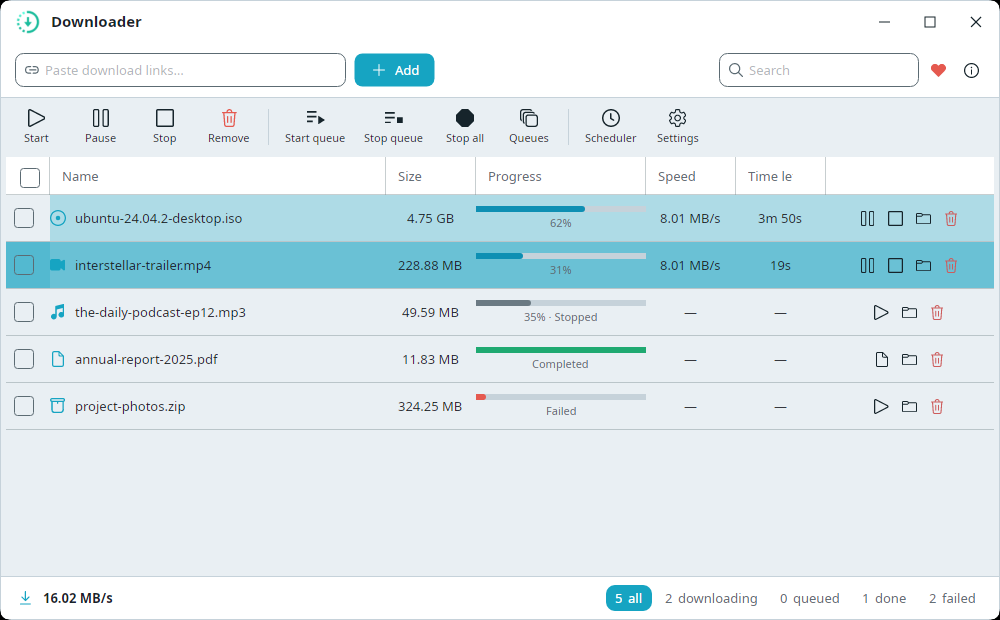
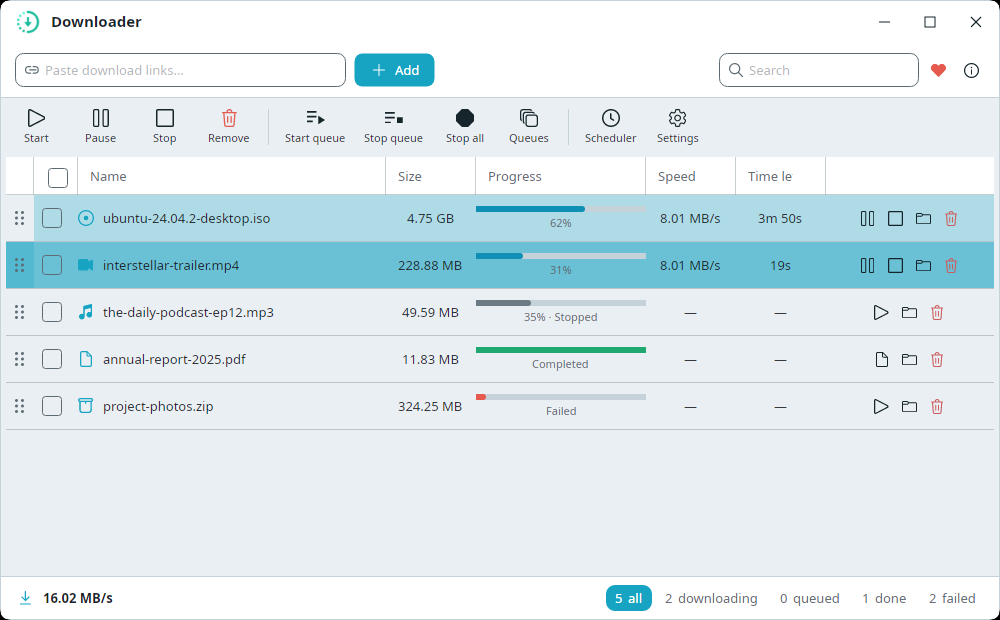
feat(grid): drag-to-reorder rows with 6-dot grip handle + cross-queue move
Add a 6-dot vertical grip handle as the first column of the downloads grid.
Dragging a row reorders the master Items list (= queue pump priority); dropping
onto a row in another queue moves the item into that queue (adopts its QueueId)
and re-pumps both. Show a per-row Queue name column only when more than one
queue exists. List stays flat (no grouping) to preserve DataGrid virtualization.

- IDownloadManager.ReorderTo(vm, target, placeAfter)
- DownloadItemViewModel.QueueName (+ DownloadsViewModel.ShowQueue/Reorder)
- GripDotsRegular icon; Col_Queue/Action_Reorder i18n keys
- Avalonia 12 DataTransfer/DoDragDropAsync wiring (old DataObject API obsolete)
- +2 manager tests (127 total green); screenshots + skill/PLAN updated

diff --git a/src/Downloader.Desktop/Views/DownloadsView.axaml.cs b/src/Downloader.Desktop/Views/DownloadsView.axaml.cs
@@ -1,3 +1,4 @@
+using System.Linq;
 using Avalonia;
 using Avalonia.Controls;
 using Avalonia.Controls.Primitives;
@@ -10,9 +11,28 @@ namespace Downloader.Desktop.Views;
 
 public partial class DownloadsView : UserControl
 {
+    private DataGridColumn _queueColumn;
+    private DownloadItemViewModel _dragRow;
+
     public DownloadsView()
     {
         InitializeComponent();
+        _queueColumn = Root.Columns.FirstOrDefault(c => c.SortMemberPath == "QueueName");
+        Root.AddHandler(DragDrop.DragOverEvent, OnRowDragOver);
+        Root.AddHandler(DragDrop.DropEvent, OnRowDrop);
+        DataContextChanged += (_, _) => HookQueueColumn();
+    }
+
+    private void HookQueueColumn()
+    {
+        if (DataContext is not DownloadsViewModel vm || _queueColumn is null)
+            return;
+        _queueColumn.IsVisible = vm.ShowQueue;
+        vm.PropertyChanged += (_, e) =>
+        {
+            if (e.PropertyName == nameof(DownloadsViewModel.ShowQueue))
+                _queueColumn.IsVisible = vm.ShowQueue;
+        };
     }
 
     private void OnSelectionChanged(object sender, SelectionChangedEventArgs e)
@@ -20,6 +40,54 @@ public partial class DownloadsView : UserControl
         // A highlighted row counts as "selected" for the toolbar, even when its checkbox is unchecked.
         if (sender is DataGrid grid && DataContext is DownloadsViewModel vm)
             vm.SetGridSelection(grid.SelectedItems);
+    }
+
+    // --- Drag-to-reorder (grip handle in the first column) ---
+    // The dragged row is held in a field (in-process); the DataTransfer only carries a marker so the
+    // platform drag session is valid. Drop reads the field and reorders the master list.
+
+    private async void OnGripPointerPressed(object sender, PointerPressedEventArgs e)
+    {
+        if (sender is not Control c || c.DataContext is not DownloadItemViewModel vm)
+            return;
+        if (!e.GetCurrentPoint(c).Properties.IsLeftButtonPressed)
+            return;
+
+        _dragRow = vm;
+        e.Handled = true;
+        var data = new DataTransfer();
+        data.Add(DataTransferItem.CreateText("downloader-row"));
+        try
+        {
+            await DragDrop.DoDragDropAsync(e, data, DragDropEffects.Move);
+        }
+        finally
+        {
+            _dragRow = null;
+        }
+    }
+
+    private void OnRowDragOver(object sender, DragEventArgs e)
+    {
+        e.DragEffects = _dragRow != null ? DragDropEffects.Move : DragDropEffects.None;
+        e.Handled = true;
+    }
+
+    private void OnRowDrop(object sender, DragEventArgs e)
+    {
+        if (_dragRow is null || DataContext is not DownloadsViewModel pageVm)
+            return;
+        if (e.Source is not Visual v)
+            return;
+
+        var row = v.FindAncestorOfType<DataGridRow>(includeSelf: true);
+        if (row?.DataContext is not DownloadItemViewModel target)
+            return;
+
+        // Dropped on the lower half of the target row → place after it, else before it.
+        var placeAfter = e.GetPosition(row).Y > row.Bounds.Height / 2;
+        pageVm.Reorder(_dragRow, target, placeAfter);
+        e.Handled = true;
     }
 
     private async void OnRowDoubleTapped(object sender, TappedEventArgs e)

diff --git a/src/Downloader.Desktop.Tests/AppTests.cs b/src/Downloader.Desktop.Tests/AppTests.cs
@@ -82,6 +82,43 @@ public class AppTests
     }
 
     [AvaloniaFact]
+    public void ReorderTo_moves_item_in_master_list()
+    {
+        var manager = new DownloadManager();
+        var config = Config.New();
+        config.DefaultQueue.IsRunning = false; // don't auto-pump network starts
+        manager.Initialize(config);
+
+        var a = manager.Add(new DownloadItem { Url = "https://host/a.zip" }, autoStart: false);
+        var b = manager.Add(new DownloadItem { Url = "https://host/b.zip" }, autoStart: false);
+        var c = manager.Add(new DownloadItem { Url = "https://host/c.zip" }, autoStart: false);
+        Assert.Equal(new[] { a, b, c }, manager.Items);
+
+        // Drag a below c → a moves to the end.
+        manager.ReorderTo(a, c, placeAfter: true);
+        Assert.Equal(new[] { b, c, a }, manager.Items);
+    }
+
+    [AvaloniaFact]
+    public void Dragging_into_another_queue_changes_its_queue()
+    {
+        var manager = new DownloadManager();
+        var config = Config.New();
+        config.DefaultQueue.IsRunning = false;
+        manager.Initialize(config);
+
+        var second = manager.AddQueue("Second");
+        var a = manager.Add(new DownloadItem { Url = "https://host/a.zip" }, autoStart: false);
+        var b = manager.Add(new DownloadItem { Url = "https://host/b.zip", QueueId = second.Id }, autoStart: false);
+        Assert.NotEqual(second.Id, a.GetItem().QueueId);
+
+        // Drop a onto b (which lives in the second queue) → a adopts the second queue.
+        manager.ReorderTo(a, b, placeAfter: false);
+        Assert.Equal(second.Id, a.GetItem().QueueId);
+        Assert.Equal("Second", a.QueueName);
+    }
+
+    [AvaloniaFact]
     public void Add_dialog_parses_multiple_urls()
     {
         var config = Config.New();

diff --git a/src/Downloader.Desktop/Services/DownloadManager.cs b/src/Downloader.Desktop/Services/DownloadManager.cs
@@ -701,6 +701,42 @@ public class DownloadManager : IDownloadManager
         PumpQueue(queueId);
     }
 
+    public void ReorderTo(DownloadItemViewModel vm, DownloadItemViewModel target, bool placeAfter)
+    {
+        if (vm == null || target == null || ReferenceEquals(vm, target))
+            return;
+
+        var from = Items.IndexOf(vm);
+        var targetIndex = Items.IndexOf(target);
+        if (from < 0 || targetIndex < 0)
+            return;
+
+        // The drop position: just after the target row when dropped on its lower half, else just before.
+        // Account for the source being removed first when it currently sits above the target.
+        var insertIndex = placeAfter ? targetIndex + 1 : targetIndex;
+        if (from < insertIndex)
+            insertIndex--;
+        insertIndex = Math.Max(0, Math.Min(insertIndex, Items.Count - 1));
+
+        // Dragging across queues adopts the queue of the row it lands next to (the target's queue).
+        var oldQueueId = vm.GetItem().QueueId;
+        var newQueueId = target.GetItem().QueueId;
+
+        if (insertIndex != from)
+            Items.Move(from, insertIndex);
+        if (!string.IsNullOrEmpty(newQueueId) && newQueueId != oldQueueId)
+        {
+            vm.GetItem().QueueId = newQueueId;
+            vm.RaiseQueueNameChanged();
+        }
+
+        NotifyList();
+        if (!string.IsNullOrEmpty(oldQueueId) && oldQueueId != newQueueId)
+            PumpQueue(oldQueueId);   // a freed slot in the old queue may let its next item start
+        if (!string.IsNullOrEmpty(newQueueId))
+            PumpQueue(newQueueId);
+    }
+
     private void Attach(DownloadItemViewModel vm, DownloadService download)
     {
         vm.Download = download;

diff --git a/src/Downloader.Desktop/ViewModels/DownloadItemViewModel.cs b/src/Downloader.Desktop/ViewModels/DownloadItemViewModel.cs
@@ -1,5 +1,6 @@
 using System;
 using System.IO;
+using System.Linq;
 using System.Windows.Input;
 using Downloader.Desktop.Models;
 using Downloader.Desktop.Services;
@@ -145,6 +146,14 @@ public class DownloadItemViewModel : ViewModelBase
 
     /// <summary>Grouping label for the list. Batched (multi-URL) adds share one; others group under "Downloads".</summary>
     public string Group => string.IsNullOrWhiteSpace(_item.Group) ? L("Group_Downloads") : _item.Group;
+
+    /// <summary>Name of the queue this download belongs to (shown in the list only when more than one
+    /// queue exists). Resolved live from the manager so a drag across queues updates it.</summary>
+    public string QueueName =>
+        _manager?.Queues?.FirstOrDefault(q => q.Id == _item.QueueId)?.Name ?? string.Empty;
+
+    /// <summary>Re-raises <see cref="QueueName"/> after the item is moved to another queue.</summary>
+    public void RaiseQueueNameChanged() => this.RaisePropertyChanged(nameof(QueueName));
 
     /// <summary>Coarse file category (video/audio/image/archive/document/app/disc/file) by extension.</summary>
     public string FileKind => GetFileKind(!string.IsNullOrWhiteSpace(_item.FileName) ? _item.FileName : _previewName);

diff --git a/src/Downloader.Desktop/ViewModels/DownloadsViewModel.cs b/src/Downloader.Desktop/ViewModels/DownloadsViewModel.cs
@@ -161,6 +161,13 @@ public class DownloadsViewModel : ViewModelBase
 
     public bool IsEmpty => ItemsView is null || ItemsView.Count == 0;
 
+    /// <summary>Show the per-row Queue name column only when more than one queue exists.</summary>
+    public bool ShowQueue => _manager?.Queues != null && _manager.Queues.Count > 1;
+
+    /// <summary>Drag-reorder forwarder used by the grid's drag handle (code-behind).</summary>
+    public void Reorder(DownloadItemViewModel vm, DownloadItemViewModel target, bool placeAfter)
+        => _manager?.ReorderTo(vm, target, placeAfter);
+
     public StatusFilter Filter
     {
         get => _filter;
@@ -186,6 +193,7 @@ public class DownloadsViewModel : ViewModelBase
     {
         ItemsView?.Refresh();
         this.RaisePropertyChanged(nameof(IsEmpty));
+        this.RaisePropertyChanged(nameof(ShowQueue));
         RaiseSelectionChanged();
     }
 

diff --git a/src/Downloader.Desktop/Services/IDownloadManager.cs b/src/Downloader.Desktop/Services/IDownloadManager.cs
@@ -85,4 +85,9 @@ public interface IDownloadManager
     /// <summary>Changes a download's priority within its queue by shifting it earlier/later in the
     /// list (<paramref name="direction"/> -1 = up/sooner, +1 = down/later); pump order follows list order.</summary>
     void MovePriority(DownloadItemViewModel vm, int direction);
+
+    /// <summary>Drag-reorders <paramref name="vm"/> to sit before/after <paramref name="target"/> in the
+    /// master list (= pump priority). If the target is in a different queue, the dragged item adopts that
+    /// queue and both queues are re-pumped.</summary>
+    void ReorderTo(DownloadItemViewModel vm, DownloadItemViewModel target, bool placeAfter);
 }

diff --git a/PLAN.md b/PLAN.md
@@ -12,7 +12,7 @@ so any machine/AI picks up the true last state.
 
 **Last updated**: 2026-06-23
 **Branch**: develop
-**Now working on**: (idle) — **UX batch 4 landed**: footer counts → clickable filter pills (All/Downloading/Queued/Done/Failed); Plugins section double-border removed (bare Expander); Install button works + gives feedback ("Install Plugins", deps.json sidecar, active-window picker); Settings combo boxes sized to the steppers (148×34); Proxy field on one line; corrupted-after-resume detection (a resumed download that finishes smaller than its known size → Failed/"corrupted", first-time small finishes left alone). See Done.
+**Now working on**: (idle) — **Drag-to-reorder landed**: a 6-dot grip handle is now the first column of the downloads grid; dragging a row reorders the master list (= queue pump priority), and dropping onto a row in another queue moves the item into that queue. A "Queue" name column shows in each row only when more than one queue exists. List stays flat (no grouping) to keep DataGrid virtualization. 127 tests green; screenshots regenerated. See Done.
 
 Author decisions (2026-06-19 overnight batch): may cut releases autonomously; Issue 1 = just fix the false alarm (don't touch update/download mechanism); Queues = full "real queue manager" redesign (mockup approved); Instagram = R&D plan only, no code.
 
@@ -30,6 +30,7 @@ Author decisions (2026-06-19 overnight batch): may cut releases autonomously; Is
 - [ ] **HLS + Torrent plugins — NEW repo (`bezzad/downloader-plugins`), separate Claude session.** Detailed spec: `docs/plugins-hls-torrent-plan.md`. HLS = `IMediaResolver`+`IPostProcessor` (m3u8 parse → segments → ffmpeg concat/decrypt, ffmpeg on first use); Torrent = `ITransferProvider`/`ITransfer` via **MonoTorrent**. Both built + TDD'd standalone against the SDK (loopback tests). **Blocked on host Phase 2** (JobCoordinator/multi-part/ITransfer wiring) for end-to-end run in the app — but the plugins + tests can be written now.
 - [ ] **Video-site downloads (HLS/.m3u8 — YouTube/Instagram/etc.) — DEFERRED, direction LOCKED.** Plan: `docs/instagram-rnd.md` (restored 2026-06-22 after it was deleted in `1105594`). Decisions locked by the author (2026-06-22): **full Option A** = yt-dlp + ffmpeg behind an `IMediaExtractor` (multi-site, not IG-only); **download binaries on first use** (don't bundle); **generic "video sites" framing** + personal-use disclaimer; **ship = not now**. When picked up: detect page-URL vs direct file → `yt-dlp -J` → route progressive MP4 through our multipart engine, let yt-dlp+ffmpeg handle HLS/DASH/split-AV; mock-extractor tests. (Supersedes the old "Issue 3 — IG R&D plan only" item, which is done.)
 ## Done
+- [x] **Drag-to-reorder rows in the downloads grid (develop, 127 tests green).** Added a **6-dot vertical grip handle** as the new first column of `DownloadsView` (left of the select-all checkbox). Dragging a row up/down reorders the **master `Items`** list, which is also the queue pump priority. **Cross-queue drag is allowed**: dropping onto a row that belongs to another queue moves the dragged item into that queue (it adopts the target's `QueueId`) and re-pumps both queues. A **"Queue" name column** appears in each row only when more than one queue exists (`DownloadsViewModel.ShowQueue`). List stays **flat (no grouping)** so DataGrid row virtualization is preserved. New: `GripDotsRegular` icon, `IDownloadManager.ReorderTo(vm,target,placeAfter)`, `DownloadItemViewModel.QueueName`, Avalonia-12 `DataTransfer`/`DoDragDropAsync` drag wiring (the old `DataObject` API is obsolete), `Col_Queue`/`Action_Reorder` i18n keys, +2 manager tests. Screenshots regenerated.
 - [x] **UX batch 4 (7 fixes, develop).** (1) **Footer = filter.** The bottom-bar status counts are now clickable toggle pills — **All / Downloading / Queued / Done / Failed** — that filter the downloads list (active pill accent-highlighted); "All" clears it; combines with search. Reused the orphaned `StatusFilter`/`Show*Command`/`Is*Selected` infra left over from the removed nav rail; added a disjoint `Queued` bucket (`Active`=Running/Paused, `Queued`=Created/None) so the pills don't double-count. (2) **Plugins section double border** → made it a bare `Expander` (was `Border.card` wrapping an `Expander`), matching the Advanced section. (3) **Install button fixed + de-silenced.** "nothing happened" was a swallowed failure with zero feedback: now shows an always-on in-app toast naming the installed plugin / "no plugin in that file" / the error; copies the `.deps.json` sidecar so plugins with deps resolve; the file picker now parents to the **active window** (`DialogHelper.ActiveWindow`) so it isn't opened behind the Settings modal on Linux; button text → **"Install Plugins"** (no `…`). (4)(5) Settings **combo boxes** (Language/Accent/File-exists) + text boxes sized to the NumericUpDown stepper (148 wide, 34 tall) so the right-hand column lines up. (6) **Proxy** field moved to a single line (label left, box fills the rest) — was a full-width box stacked under its label. (7) **Corrupted-after-resume.** Per author: a first-time download finishing small is fine (left alone); but a download that **started at size X, was paused/stopped, resumed, then finished smaller than X** is missing bytes → marked **Failed** with a "this file looks corrupted / incomplete" message + notification. Renamed `ExpiredLinkHeuristic`→`LooksCorruptedAfterResume`, threshold tightened from `<half` to `<known size`. 125 tests green; screenshots regenerated (footer pills + combo alignment verified light+dark).
 - [x] **UX batch 3 (3 commits on develop).** (1) **Update fixes**: macOS "restart to update" loop (the swap nested Downloader.app into Contents/MacOS and relaunched the old binary → re-detected → loop; new `WriteMacScript` replaces the whole .app + relaunches via `open`); a **× cancel** on the Settings download progress bar (`UpdateFlow.CancelDownload`); a **"vX.Y.Z available"** label. **Expired-link detection**: a RESUME that "completes" at <half the previously-known size = an expired/stub link → Failed (`ExpiredLinkHeuristic`, captured `PreAttemptSize`, +5 tests). **Stop All** now a distinct octagon icon. (2) **Removed the left nav rail** — main view is always the downloads list; Queues/Scheduler/Settings open as **dialogs** (`PageDialogView` + `DialogHelper.ShowPage`); nav buttons appended to the toolbar `| … | … , Queues | Scheduler, Settings |`; status filters dropped (search only); **Plugins moved into a collapsible Settings section**. (3) **Plugin docs** `docs/writing-plugins.md` + the sample plugin rewritten as **GitHub Releases** (`com.bezzad.github-releases`) implementing ALL interfaces (resolver/post-processor/transfer). 124 tests green; screenshots regenerated. NOTE: macOS update + Iran-flag remain on-device-verify-only.
 - [x] **Plugin foundation (Phase 1).** New SDK assembly `src/Downloader.Desktop.Plugins.Abstractions` (interfaces + POCOs) for the 3-phase pipeline (Resolve `IMediaResolver` / Transfer `ITransferProvider`+`ITransfer` / Post-process `IPostProcessor`); `Services/PluginManager` (DI singleton) loads external plugin DLLs via a collectible `AssemblyLoadContext` that shares the Abstractions assembly from the host (unified type identity), registry of enabled contributions, `ResolveAsync` hook, `Config.DisabledPlugins` persistence; **Plugins UI** (nav→MANAGE: list/install/open-folder/enable). **TDD:** `PluginTests` (8) incl. a real external-DLL load via `samples/Downloader.Desktop.SamplePlugin` staged by the test csproj — proves ALC + shared-SDK identity end-to-end. 119 tests green; design `docs/plugins-architecture.md`. **Phase 2 (deferred):** the `JobCoordinator`/multi-part download + `ITransfer` refactor so the queue/UI drive torrent/HLS uniformly, then the official HLS (yt-dlp+ffmpeg)/torrent plugins.

diff --git a/.claude/skills/downloader-desktop/SKILL.md b/.claude/skills/downloader-desktop/SKILL.md
@@ -196,3 +196,11 @@ See `CLAUDE.md` at the repo root for product vision, locked decisions, and the f
 - **Plugin Install must give feedback** (it silently swallowed failures → "nothing happened"). `PluginsViewModel.InstallAsync` now diffs `_manager.Plugins` before/after and shows an always-on in-app toast: installed plugin name / "no plugin in that file" / the exception. Use `NotificationService.Inform(title,msg,isError)` (added) — it always shows the in-app toast regardless of the notifications on/off switch (direct action feedback). Also copies the `.deps.json` sidecar next to the DLL so plugins with their own deps resolve (the sample has none, so a bare DLL still loads — proven by `Loads_a_real_external_plugin_DLL_from_disk`).
 - **Settings double-border:** wrap nothing extra around an `Expander` — the Plugins section was `Border.card` > `Expander` (two borders); a bare `<Expander>` matches the Advanced section. Right-hand inputs: `ComboBox.ctrl`/`TextBox.ctrl` set `Width=148 Height=34 MinHeight=34` to line up with the global `NumericUpDown` (`MinHeight=34`, `.ctrl` Width 148). Proxy is a single-line `Grid ColumnDefinitions="Auto,*"` (label left, box fills) not a label-over-box StackPanel.
 - **`ExpiredLinkHeuristic` → `LooksCorruptedAfterResume`** (author spec): a first-time download finishing small is FINE (never flagged — `PreAttemptSize` is null when `item.Downloaded==0`); only a RESUME (`PreAttemptSize>0`) that finishes **smaller than the known size** is flagged → Failed with a "file looks corrupted / incomplete" message (threshold is `< knownSize`, not `< knownSize/2`). Same `PreAttemptSize` capture + `ReceivedBytesSize` read as before.
+
+## Drag-to-reorder rows (main grid)
+- **6-dot grip = first column** of `DownloadsView` (left of the select-all checkbox). Dragging a row reorders the **master `Items`** list = queue pump priority (same ordering the Queues-page chevrons drive). Dropping onto a row in **another queue moves the dragged item into that queue** (adopts the target's `QueueId`).
+- **Manager**: `DownloadManager.ReorderTo(vm, target, placeAfter)` (on `IDownloadManager`) — `Items.Move` to the drop index (decrement when source was above target), adopt `target`'s `QueueId` if different (+ `vm.RaiseQueueNameChanged()`), `NotifyList()`, then `PumpQueue` the old and new queues. Keep `MovePriority` (±1) for the Queues page. `DownloadsViewModel.Reorder(...)` just forwards to the manager (code-behind calls it).
+- **Row VM**: `DownloadItemViewModel.QueueName` is computed live from `_manager.Queues` by `_item.QueueId` (no manual sync); `RaiseQueueNameChanged()` re-raises it after a cross-queue move.
+- **Queue column**: shown only when `DownloadsViewModel.ShowQueue` (`Queues.Count > 1`, re-raised in `Refresh()`). **An `x:Name` on a `DataGridColumn` does NOT generate a code-behind field** (CS0103) — find it instead via `Root.Columns.FirstOrDefault(c => c.SortMemberPath == "QueueName")` and set `IsVisible` from code-behind (subscribe to the VM's `PropertyChanged` for `ShowQueue`).
+- **Avalonia 12 drag-drop API changed**: `DataObject`/`DragDrop.DoDragDrop`/`DragEventArgs.Data` are **obsolete**. Use `new DataTransfer()` + `data.Add(DataTransferItem.CreateText(...))`, `await DragDrop.DoDragDropAsync(pointerArgs, data, DragDropEffects.Move)`, and read `DragEventArgs.DataTransfer`. For in-process row drag just hold the dragged VM in a private field (the DataTransfer only needs a marker item to make the session valid); set `DragDrop.AllowDrop="True"` on the grid and `Root.AddHandler(DragDrop.DragOverEvent/DropEvent, ...)`. `placeAfter = e.GetPosition(row).Y > row.Bounds.Height/2`.
+- Adding the grip column shifted the overlaid select-all checkbox: its `Margin` went `14 9 0 0` → `42 9 0 0` (28px grip + 14px).
